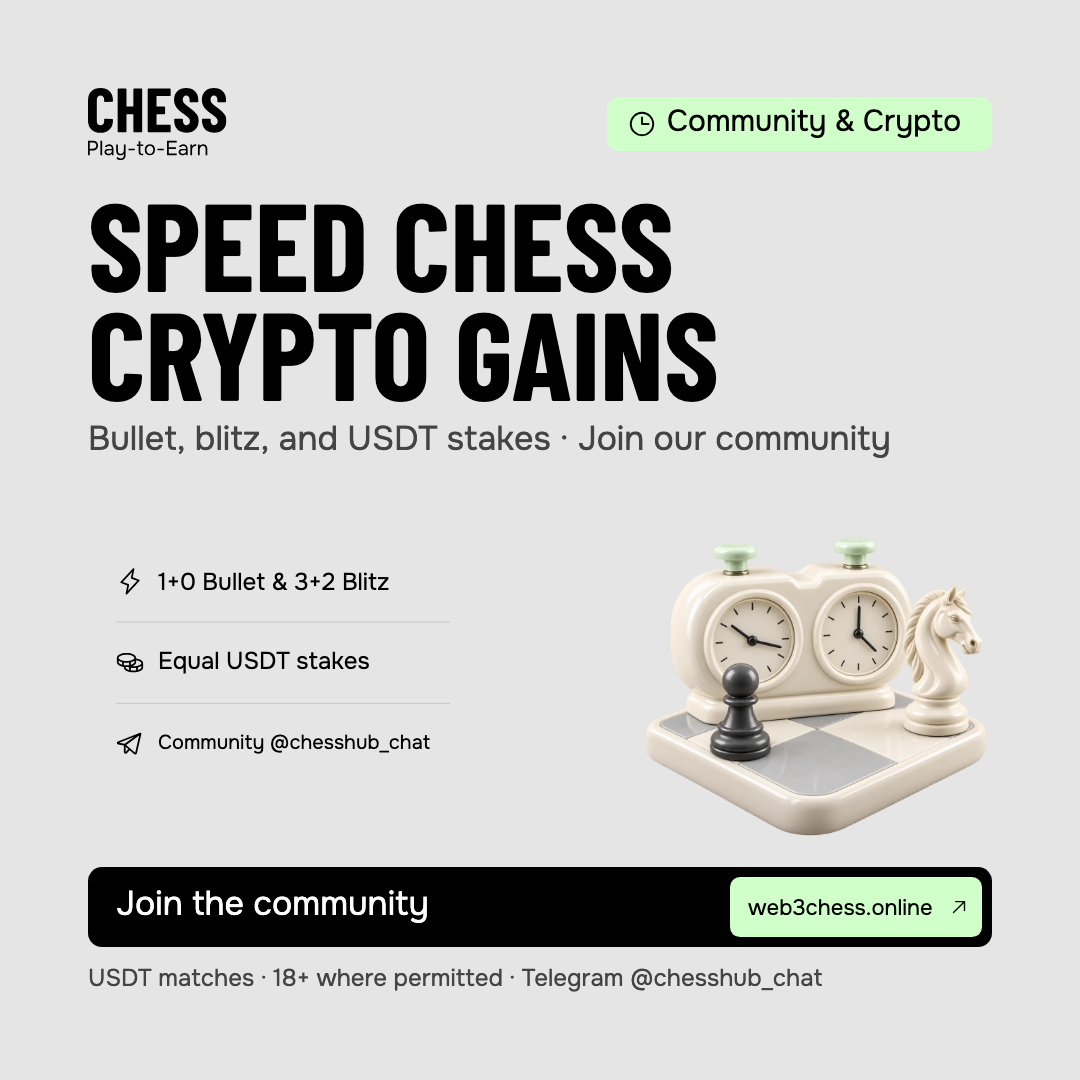
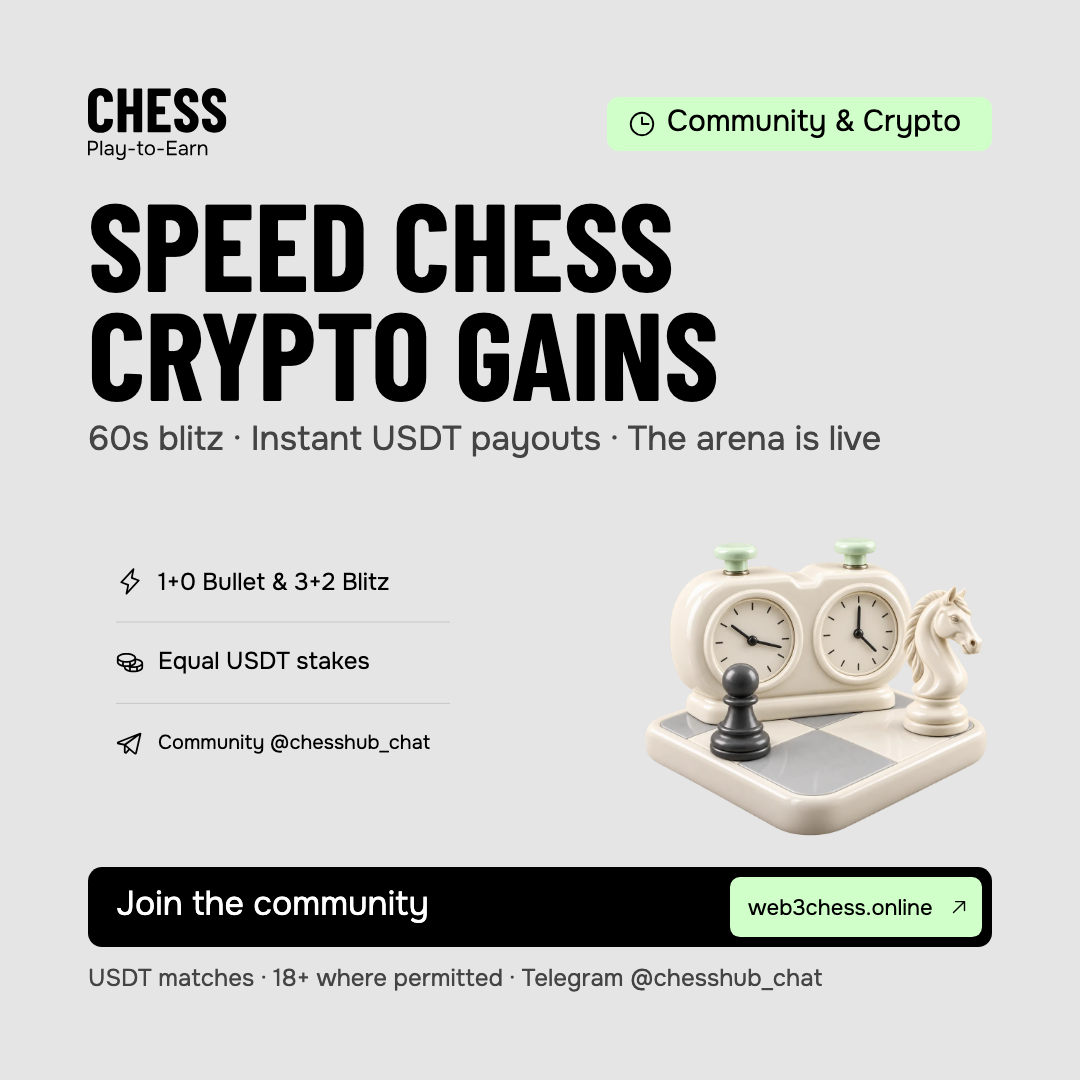
feat(marketing): save canvas style guide and update announcement with viral FOMO subtitle

Changed region(s): [[0.0917, 0.3972, 0.825, 0.4278]]

diff --git a/marketing/templates/CANVAS_STYLE_GUIDE.md b/marketing/templates/CANVAS_STYLE_GUIDE.md
@@ -1,0 +1,120 @@
+# Web3Chess Social Canvas Style Guide & Golden Standards
+
+This guide defines the visual and copywriting standards for all social media graphics, campaign banners, and announcement canvases produced for Web3Chess (`web3chess.online` & `@chesshub_chat`).
+
+All canvas generators, rendering scripts, and marketing workflows must adhere strictly to these standards.
+
+---
+
+## 1. Context-Connected Icons
+
+Every item in a list or proof card must have an icon that directly represents the context and meaning of the text. Never repeat a generic icon (like multiple clocks or checkmarks) across distinct concepts.
+
+| Context | Recommended Phosphor Icon | Example Copy |
+| :--- | :--- | :--- |
+| **Speed / Time Controls** | `lightning` (⚡) | `1+0 Bullet & 3+2 Blitz`, `Fast Blitz (60s)` |
+| **Crypto Gains / Wagers / Stakes** | `coins` (🪙) or `scales` (⚖) | `Equal USDT stakes`, `Instant USDT payouts` |
+| **Telegram Community / Social** | `telegram-logo` (✈) | `Community @chesshub_chat`, `Telegram Arena` |
+| **A.I. Training / Academy** | `graduation-cap` (🎓) or `strategy` (♟) | `Learn opening principles`, `Master endgames` |
+| **Security / Fair Play** | `shield-check` (🛡) | `Anti-cheat engine`, `Transparent settlement` |
+| **Tournaments / Leaderboard** | `trophy` (🏆) or `crown-simple` (👑) | `Daily leaderboard prizes`, `Seasonal cup` |
+
+### Engine Implementation
+In `marketing/templates/renderer.js`, proof rows support explicit icon arrays (`d.proofIcons = ['lightning', 'coins', 'telegram-logo']`) or automatic context mapping based on keywords (`bullet`, `blitz`, `usdt`, `stake`, `chat`, `@`).
+
+---
+
+## 2. Compact Single-Line Typography
+
+Text rows must never break awkwardly onto an orphaned second line (e.g. single words like *"Blitz"*, *"stakes"*, or *"@chesshub_chat"* stranded alone).
+
+- **List Items**: Width must be at least `390px` (or full width in wide format) with `size: 24px` and `maxLines: 1`. Each item must fit on a single horizontal line vertically centered with its 28px icon.
+- **Subtitles (Deck / Body)**:
+  - Max character length for single-line subtitles is **50–54 characters** (e.g., `60s blitz · Instant USDT payouts · The arena is live`).
+  - If a 2-line subtitle is required, split explicitly with `\n` to maintain visual symmetry and balance.
+- **Letter Spacing & Weight**: Use `font: 'body'` (Onest) at `weight: 600` for proof rows and `weight: 400–500` for body copy. Headlines use `font: 'display'` (Barlow Condensed Bold 700) with `leading: 0.88`.
+
+---
+
+## 3. Transparent Canvas Integration
+
+- **No Opaque Card Boxes**: Do not wrap list items inside solid white (`#FFFFFF`) rounded rectangles on the light canvas.
+- **Floating Elements**: Icons, text, and subtle 1px divider lines (`C.line` / `#D4D4D4`) float directly on the background surface (`#E5E5E5` / Warm Canvas).
+- This creates an airy, editorial "Fog Board" aesthetic consistent with the brand guidelines.
+
+---
+
+## 4. Action Bar & Footer Hierarchy
+
+The bottom interactive and regulatory zone uses a strict dual-element structure:
+
+1. **Dual-Action Bar (`action-panel`)**:
+   - Black background (`#0A0A0A`), 14px border radius.
+   - Left side: Prominent call-to-action text in white (e.g., `Join the community`, `Enter the arena`).
+   - Right side: Mint green accent pill (`#B4F4A4`, `action-pill`) with dark text displaying the destination URL and arrow (e.g., `web3chess.online ↗`).
+2. **Single-Line Compliance Note (`note`)**:
+   - Positioned beneath the action bar in muted slate (`#666666`).
+   - Strictly reserved for regulatory and platform disclaimers: `USDT matches · 18+ where permitted · Telegram @chesshub_chat`.
+   - Never duplicate `web3chess.online` in the note; it is already prominently featured in the action button above it.
+   - Must fit on a single line with `maxLines: 1`.
+
+---
+
+## 5. Brand Identity & Lockup
+
+- **Official Wordmark**: Use the official vector mark: text-only "**CHESS**" (Barlow Condensed Bold 700) with "**Play-to-Earn**" (Onest 400) beneath it (from `website/public/brand/w3chess-logo.svg`).
+- **No Purple Rooks**: Do not use the deprecated purple chess piece icon or outdated multi-color lockups.
+- **Aspect Ratio**: The mark maintains an exact width-to-height aspect ratio (~1.92).
+
+---
+
+## 6. Copywriting & FOMO Standards
+
+- **Zero Terminal Periods**: Headings, subheads, tags, proof rows, button labels, and footer notes **MUST NEVER** end with a period (`.`).
+- **Viral & FOMO Phrasing**:
+  - Focus on **speed**, **real crypto gains**, and **live urgency**.
+  - *Poor / Generic*: `Bullet, blitz, and USDT stakes. Join our community.`
+  - *High-Converting / FOMO*: `60s blitz · Instant USDT payouts · The arena is live`
+  - *Alternative*: `Fast blitz · Real USDT stakes · Win & cash out live`
+
+---
+
+## 7. Canonical Code Example
+
+When defining a campaign object for `W3Renderer.scene(campaign, format)`:
+
+```javascript
+const speedChessCampaign = {
+  id: 'tempo',
+  number: '05',
+  name: 'Speed Chess & Crypto Gains',
+  purpose: 'Community & Wagers',
+  icon: 'clock',
+  theme: 'canvas',                         // Light warm-canvas background
+  art: 'clock',                           // Official 3D sculpture key
+  tag: 'Community & Crypto',               // Mint pill badge
+  headline: 'SPEED CHESS\nCRYPTO GAINS',   // 2-line punchy Barlow headline (no periods)
+  body: '60s blitz · Instant USDT payouts · The arena is live', // Viral & FOMO subtitle
+  cta: 'Join the community',               // Action verb in CTA bar
+  note: 'USDT matches · 18+ where permitted · Telegram @chesshub_chat', // Single-line disclaimer
+  proof: [
+    '1+0 Bullet & 3+2 Blitz',              // Item 1: Speed time controls
+    'Equal USDT stakes',                   // Item 2: Crypto gains & wager
+    'Community @chesshub_chat'             // Item 3: Telegram handle
+  ],
+  proofIcons: [
+    'lightning',                           // ⚡ Speed chess
+    'coins',                               // 🪙 Crypto & USDT stakes
+    'telegram-logo'                        // ✈ Telegram channel
+  ]
+};
+```
+
+---
+
+## 8. Golden Reference Exports
+
+Inspect the approved golden standard renders in the repository:
+- **Square (1:1 / 1080×1080)**: [`marketing/content-ops/queue/2026-10-14/web3_speed_chess_announcement_canvas.png`](file:///Users/grandmaestro/Developer/ChessTGBot/marketing/content-ops/queue/2026-10-14/web3_speed_chess_announcement_canvas.png)
+- **Portrait (4:5 / 1080×1350)**: [`marketing/content-ops/queue/2026-10-14/web3_speed_chess_announcement_portrait.png`](file:///Users/grandmaestro/Developer/ChessTGBot/marketing/content-ops/queue/2026-10-14/web3_speed_chess_announcement_portrait.png)
+- **Wide (16:9 / 1920×1080)**: [`marketing/content-ops/queue/2026-10-14/web3_speed_chess_announcement_wide.png`](file:///Users/grandmaestro/Developer/ChessTGBot/marketing/content-ops/queue/2026-10-14/web3_speed_chess_announcement_wide.png)

diff --git a/AGENTS.md b/AGENTS.md
@@ -9,6 +9,7 @@ Telegram Mini App chess game. Next.js frontend + FastAPI backend.
 - Follow X (2026) UI/UX standards: "Lights Out" obsidian contrast (`#000000` void, `#0A0A0A` surface, 1px `#1F1F1F` borders), zero-latency optimistic state updates, and tactile `telegramHaptic` triggers.
 - The guide's Telegram safe-area, `NavbarContext`, accessibility, reduced-motion, z-index, and performance rules are mandatory. Update the guide in the same change when those conventions or shared primitives change.
 - **Marketing website only** (not the Mini App): follows the light "Fog Board" system in [`design-system/website/DESIGN.md`](design-system/website/DESIGN.md) with tokens in `design-system/website/theme.css`. Never import those tokens into `frontend/`, and never apply Obsidian Chess rules to the website.
+- **Marketing & Social Canvases**: All canvas banners, promotional graphics, and social posts **MUST** follow [`marketing/templates/CANVAS_STYLE_GUIDE.md`](marketing/templates/CANVAS_STYLE_GUIDE.md). Enforces the monochrome text-only logo (no purple rook), contextual Phosphor icons, compact single-line proof rows, transparent canvas integration, dual-action button bar with mint URL pill, and zero terminal periods in UI copy.
 
 ## Production topology
 

diff --git a/marketing/templates/README.md b/marketing/templates/README.md
@@ -11,7 +11,8 @@ Select a family and format, edit the hook/support/label/action, choose a brand s
 - Eight extra 9:16 compositions for the conservative Reels guide, including the puzzle answer.
 - 40 final-resolution PNGs and 40 SVG sources with embedded fonts and artwork.
 - Editable local studio, collection preview, format preview, campaign playbook and export manifest.
-- Current open violet rook / outlined CHESS lockup, Barlow Condensed Bold, Onest, contextual 3D sculpture family, and the existing vendored Phosphor regular icon pack. Licenses are included.
+- Official text-only CHESS Play-to-Earn lockup (Barlow Condensed Bold + Onest), contextual 3D sculpture family, and vendored Phosphor icon pack.
+- Canonical style guide and production rules in [`CANVAS_STYLE_GUIDE.md`](CANVAS_STYLE_GUIDE.md). Licenses are included.
 
 ## Architecture
 
